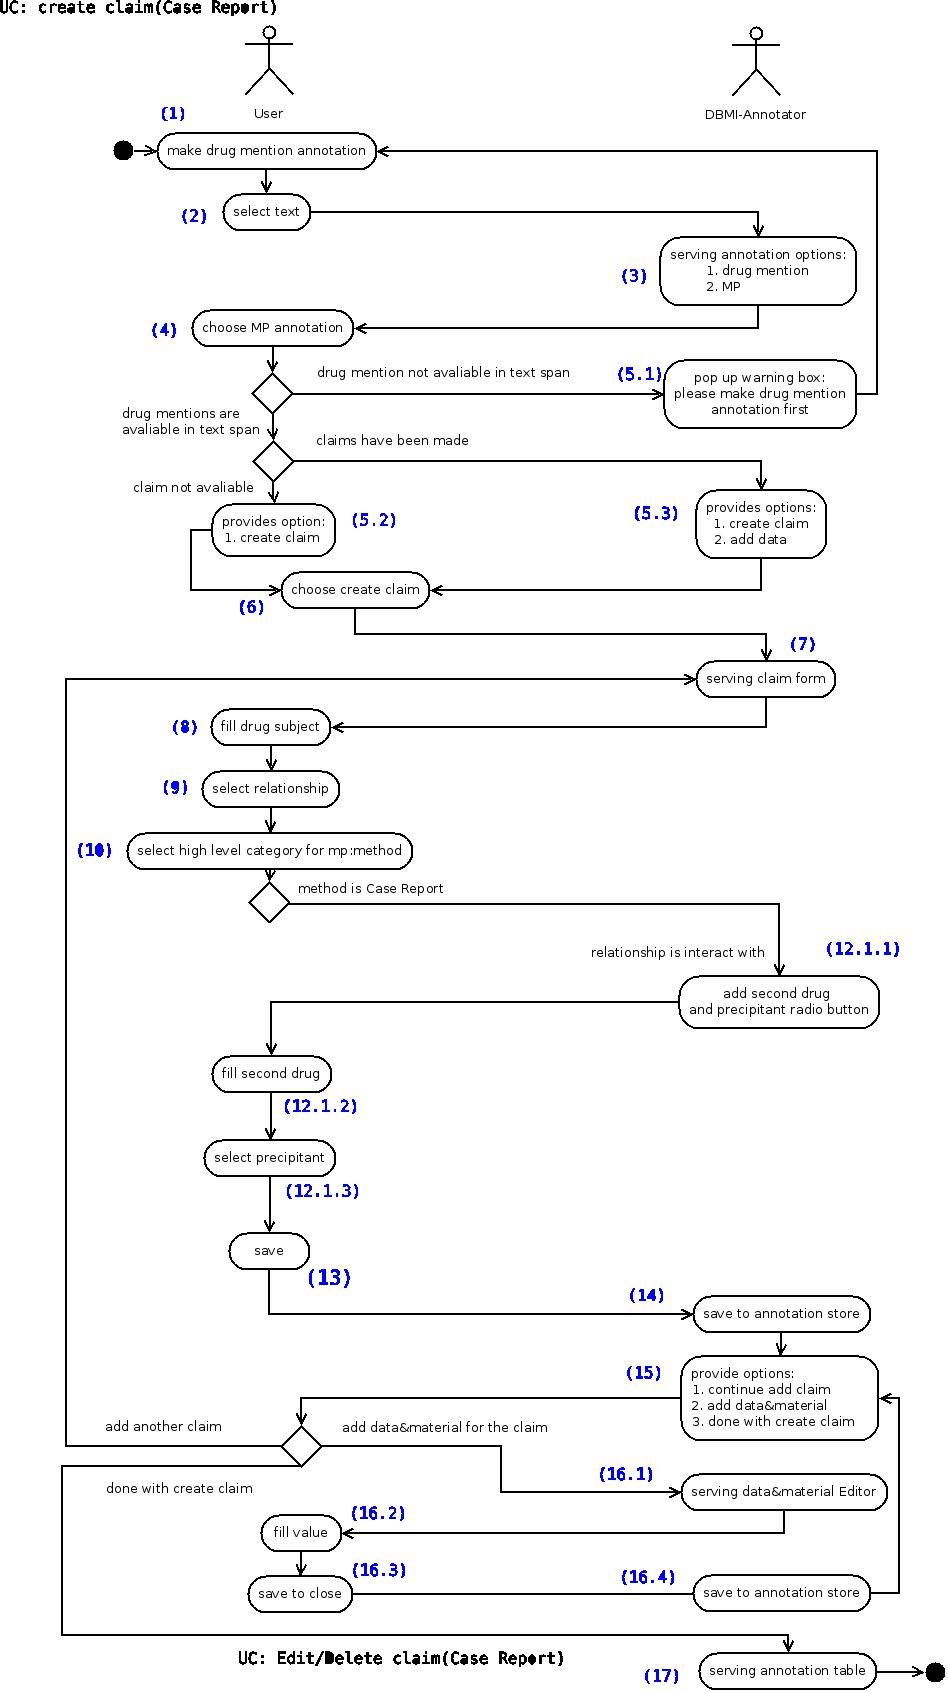
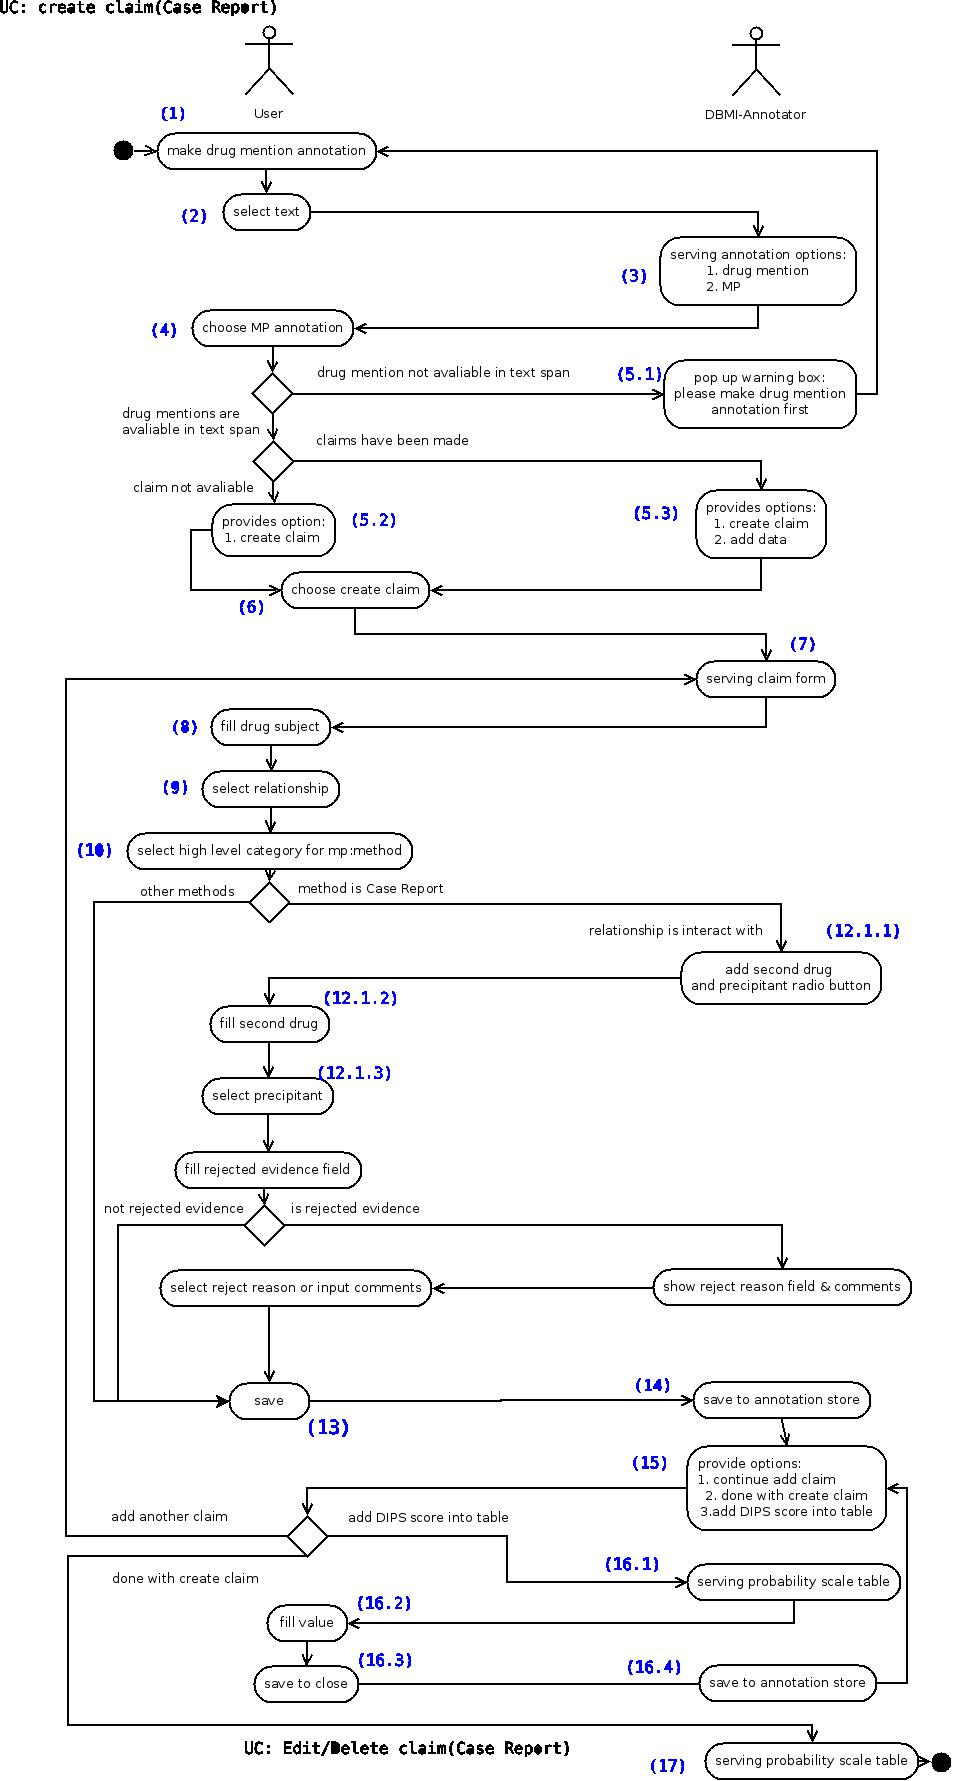
add dia > activity diagram
bugs exit in phenotype

diff --git a/public/dbmiannotator/js/mp-annotation-table.js b/public/dbmiannotator/js/mp-annotation-table.js
@@ -114,7 +114,7 @@ function updateClaimAndData(annotations, annotationId) {
         claimPanel += "<tr><td><button id='edit-claim-btn' type='button' onclick='editClaim()' style='float:left; font-size:12px'>Edit Claim</button><button id='view-claim-btn' type='button' onclick='viewClaim()' style='float: right; font-size:12px'>View Claim</button></td></tr></table>";
         
         var dataPanel = "";
-        if (currAnnotation.rejected == null || currAnnotation.rejected == undefined) {
+        if (currAnnotation == undefined || currAnnotation.rejected == null || currAnnotation.rejected == undefined) {
             // Data & Material - add new data button 
             dataPanel = "<button id='add-new-data-row-btn' type='button' onclick='addNewDataRow()' style='float: right; font-size:12px'>add new data & material</button>" + dataTable;
         }
@@ -187,8 +187,12 @@ function createDataTable(annotation){
         else if (annotation.argues.qualifiedBy.precipitant == "drug2")
             drugname2 += " (precipitant)";
     }
-
-    dataTable = "<table id='mp-data-tb'><tr><td>Ev Relationship</td><td>No. of Participants</td><td><div>" + drugname1 + " Dose</div></td><td>" + drugname2 + " Dose</td><td>AUC ratio</td><td>Cmax ratio</td><td>Clearance ratio</td><td>Half-life ratio</td><td>Study type</td></tr>";
+    if (drugname2 == "") {
+        dataTable = "<table id='mp-data-tb'><tr><td>Ev Relationship</td><td>No. of Participants</td><td><div>" + drugname1 + " Dose</div></td><td>Phenotype</td><td>AUC ratio</td><td>Cmax ratio</td><td>Clearance ratio</td><td>Half-life ratio</td><td>Study type</td></tr>";
+    } else {
+        dataTable = "<table id='mp-data-tb'><tr><td>Ev Relationship</td><td>No. of Participants</td><td><div>" + drugname1 + " Dose</div></td><td>" + drugname2 + " Dose</td><td>AUC ratio</td><td>Cmax ratio</td><td>Clearance ratio</td><td>Half-life ratio</td><td>Study type</td></tr>";
+    }
+    
 
     annotationId = annotation.id;
     dataL = annotation.argues.supportsBy;
@@ -216,10 +220,19 @@ function createDataTable(annotation){
             else 
                 row += "<td onclick='addDataCellByEditor(\"dose1\",\""+dataNum+"\");'></td>"; 
 
-            if (material.drug2Dose.value != null)
-                row += "<td onclick='editDataCellByEditor(\"dose2\",\""+dataNum+"\");'>" + material.drug2Dose.value + "</td>";
-            else 
-                row += "<td onclick='addDataCellByEditor(\"dose2\",\""+dataNum+"\");'></td>"; 
+            if (drugname2 == "") {
+                console.log("drugname2");
+                console.log(drugname2);
+                if (material.phenotype != null)
+                    row += "<td onclick='editDataCellByEditor(\"phenotype\",\""+dataNum+"\");'>" + material.phenotype.type + "</td>";
+                else 
+                    row += "<td onclick='addDataCellByEditor(\"phenotype\",\""+dataNum+"\");'></td>";
+            } else {
+                if (material.drug2Dose.value != null)
+                    row += "<td onclick='editDataCellByEditor(\"dose2\",\""+dataNum+"\");'>" + material.drug2Dose.value + "</td>";
+                else 
+                    row += "<td onclick='addDataCellByEditor(\"dose2\",\""+dataNum+"\");'></td>"; 
+            }
             // show mp data
             if (data.auc.value != null)
                 row += "<td onclick='editDataCellByEditor(\"auc\",\""+dataNum+"\");'>" + data.auc.value + "</td>";
@@ -250,8 +263,11 @@ function createDataTable(annotation){
             dataTable += row;
         }
     } else { // add empty row
-        dataTable += "<tr style='height:20px;'><td onclick='addDataCellByEditor(\"evRelationship\",0);'></td><td onclick='addDataCellByEditor(\"participants\",0);'></td><td onclick='addDataCellByEditor(\"dose1\",0);'> </td><td onclick='addDataCellByEditor(\"dose2\",0);'></td><td onclick='addDataCellByEditor(\"auc\",0);'></td><td onclick='addDataCellByEditor(\"cmax\",0);'></td><td onclick='addDataCellByEditor(\"clearance\",0);'></td><td onclick='addDataCellByEditor(\"halflife\",0);'></td><td onclick='addDataCellByEditor(\"studytype\",0);'></td>";
-    }
+        if (drugname2 == "") {
+            dataTable += "<tr style='height:20px;'><td onclick='addDataCellByEditor(\"evRelationship\",0);'></td><td onclick='addDataCellByEditor(\"participants\",0);'></td><td onclick='addDataCellByEditor(\"dose1\",0);'> </td><td onclick='addDataCellByEditor(\"phenotype\",0);'></td><td onclick='addDataCellByEditor(\"auc\",0);'></td><td onclick='addDataCellByEditor(\"cmax\",0);'></td><td onclick='addDataCellByEditor(\"clearance\",0);'></td><td onclick='addDataCellByEditor(\"halflife\",0);'></td><td onclick='addDataCellByEditor(\"studytype\",0);'></td>";
+        } else {
+            dataTable += "<tr style='height:20px;'><td onclick='addDataCellByEditor(\"evRelationship\",0);'></td><td onclick='addDataCellByEditor(\"participants\",0);'></td><td onclick='addDataCellByEditor(\"dose1\",0);'> </td><td onclick='addDataCellByEditor(\"dose2\",0);'></td><td onclick='addDataCellByEditor(\"auc\",0);'></td><td onclick='addDataCellByEditor(\"cmax\",0);'></td><td onclick='addDataCellByEditor(\"clearance\",0);'></td><td onclick='addDataCellByEditor(\"halflife\",0);'></td><td onclick='addDataCellByEditor(\"studytype\",0);'></td>";
+    }   }
     dataTable += "</table>";
     return dataTable;
 }

diff --git a/public/dbmiannotator/js/mp-annotation-editor.js b/public/dbmiannotator/js/mp-annotation-editor.js
@@ -11,6 +11,7 @@ function claimEditorLoad() {
     $("#mp-data-form-participants").hide();
     $("#mp-data-form-dose1").hide();
     $("#mp-data-form-dose2").hide();
+    $("#mp-data-form-phenotype").hide();
     $("#mp-data-form-auc").hide();
     $("#mp-data-form-cmax").hide();
     $("#mp-data-form-clearance").hide();
@@ -73,11 +74,49 @@ function deselectDrug() {
     $("#quote").html(quotestring);
 }
 
+// when method is phenotype and relationship is inhibits or substrate of
+function showPhenotype() {
+    if (($("#method option:selected").text() == "Phenotype Clinical Study") && ($("#relationship option:selected").text() == "inhibits"||$("#relationship option:selected").text()=="substrate of")) {
+        $("#Drug1-1").html("Drug: ");
+        $("#Drug2-1").parent().hide();
+        $("#Drug2").parent().hide();
+    } else {
+        $("#Drug1-1").html("Drug1: ");
+        $("#Drug2-1").parent().show();
+        $("#Drug2").parent().show();
+    }
+}
+
+// when type is Genotype
+function showPhenotypeType() {
+    console.log($("input:radio[@name=phenotypeType]:checked").val());
+    console.log($("input:radio[@name=phenotypeMetabolizer]:checked").val());
+    if ($("input:radio[name=phenotypeType]:checked").val() == "Genotype") {
+        $('#geneFamily').show();
+        $('#geneFamily-label').show();
+        $('#markerDrug').hide();
+        $('#markerDrug-label').hide();
+    } else {
+        $('#geneFamily').hide();
+        $('#geneFamily-label').hide();
+        $('#markerDrug').show();
+        $('#markerDrug-label').show();
+    }
+}
 
 // when relationship is inhibits or substrate of, show field enzyme
 function showEnzyme() {
 
-    if($("#relationship option:selected").text()=="inhibits"||$("#relationship option:selected").text()=="substrate of") {
+    if($("#relationship option:selected").text() == "inhibits"||$("#relationship option:selected").text()=="substrate of") {
+        if ($("#method option:selected").text() == "Phenotype Clinical Study") {
+            $("#Drug1-1").html("Drug: ");
+            $("#Drug2-1").parent().hide();
+            $("#Drug2").parent().hide();
+        } else {
+            $("#Drug1-1").html("Drug1: ");
+            $("#Drug2-1").parent().show();
+            $("#Drug2").parent().show();
+        }
         $("#enzyme")[0].selectedIndex = 0;
         $("#enzymesection1").show();
         $("#enzyme").show();
@@ -87,6 +126,9 @@ function showEnzyme() {
         $('.precipitantLabel').parent().hide();
     }
     if($("#relationship option:selected").text()=="interact with") {
+        $("#Drug1-1").html("Drug1: ");
+        $("#Drug2-1").parent().show();
+        $("#Drug2").parent().show();
         $("#enzymesection1").hide();
         $("#enzyme").hide();
         $('input[type=radio][name=precipitant]').parent().show();
@@ -248,8 +290,6 @@ function preDataForm(targetField, isNotNeedValid) {
     focusOnDataField(targetField);
 }
 
-
-
 // switch data from nav button
 function switchDataForm(targetField, isNotNeedValid) {
 
@@ -289,7 +329,7 @@ function switchDataForm(targetField, isNotNeedValid) {
 function switchDataFormHelper(targetField) {
 
     // field actual div id mapping
-    fieldM = {"evRelationship":"evRelationship", "participants":"participants", "dose1":"drug1Dose", "dose2":"drug2Dose", "auc":"auc", "cmax":"cmax", "clearance":"clearance", "halflife":"halflife", "studytype":"studytype"};
+    fieldM = {"evRelationship":"evRelationship", "participants":"participants", "dose1":"drug1Dose", "dose2":"drug2Dose", "phenotype":"phenotype", "auc":"auc", "cmax":"cmax", "clearance":"clearance", "halflife":"halflife", "studytype":"studytype"};
 
     var showDeleteBtn = false;
 

diff --git a/public/dbmiannotator/js/annotator-init-mp.js b/public/dbmiannotator/js/annotator-init-mp.js
@@ -131,6 +131,14 @@ function initLiseners() {
     $('#relationship').change(function() {
         showEnzyme();
     });
+
+    $('#method').change(function() {
+        showPhenotype();
+    });
+
+    $('#phenotypeType').change(function() {
+        showPhenotypeType();
+    });
     
     rejectEvidenceCheckBox("rejected-evidence");
 
